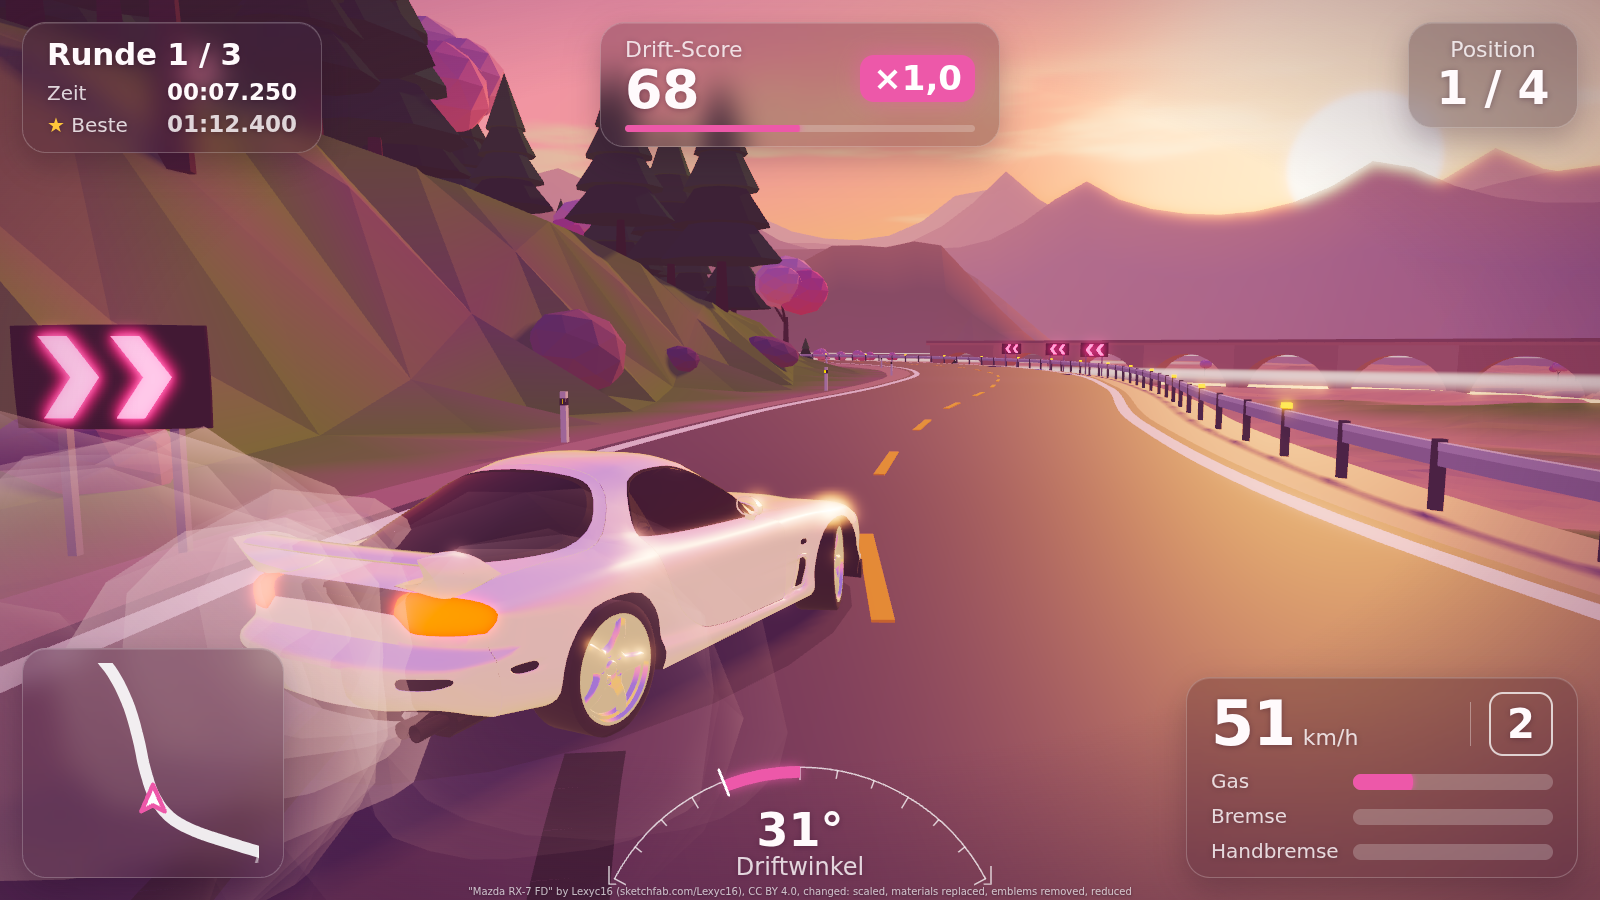
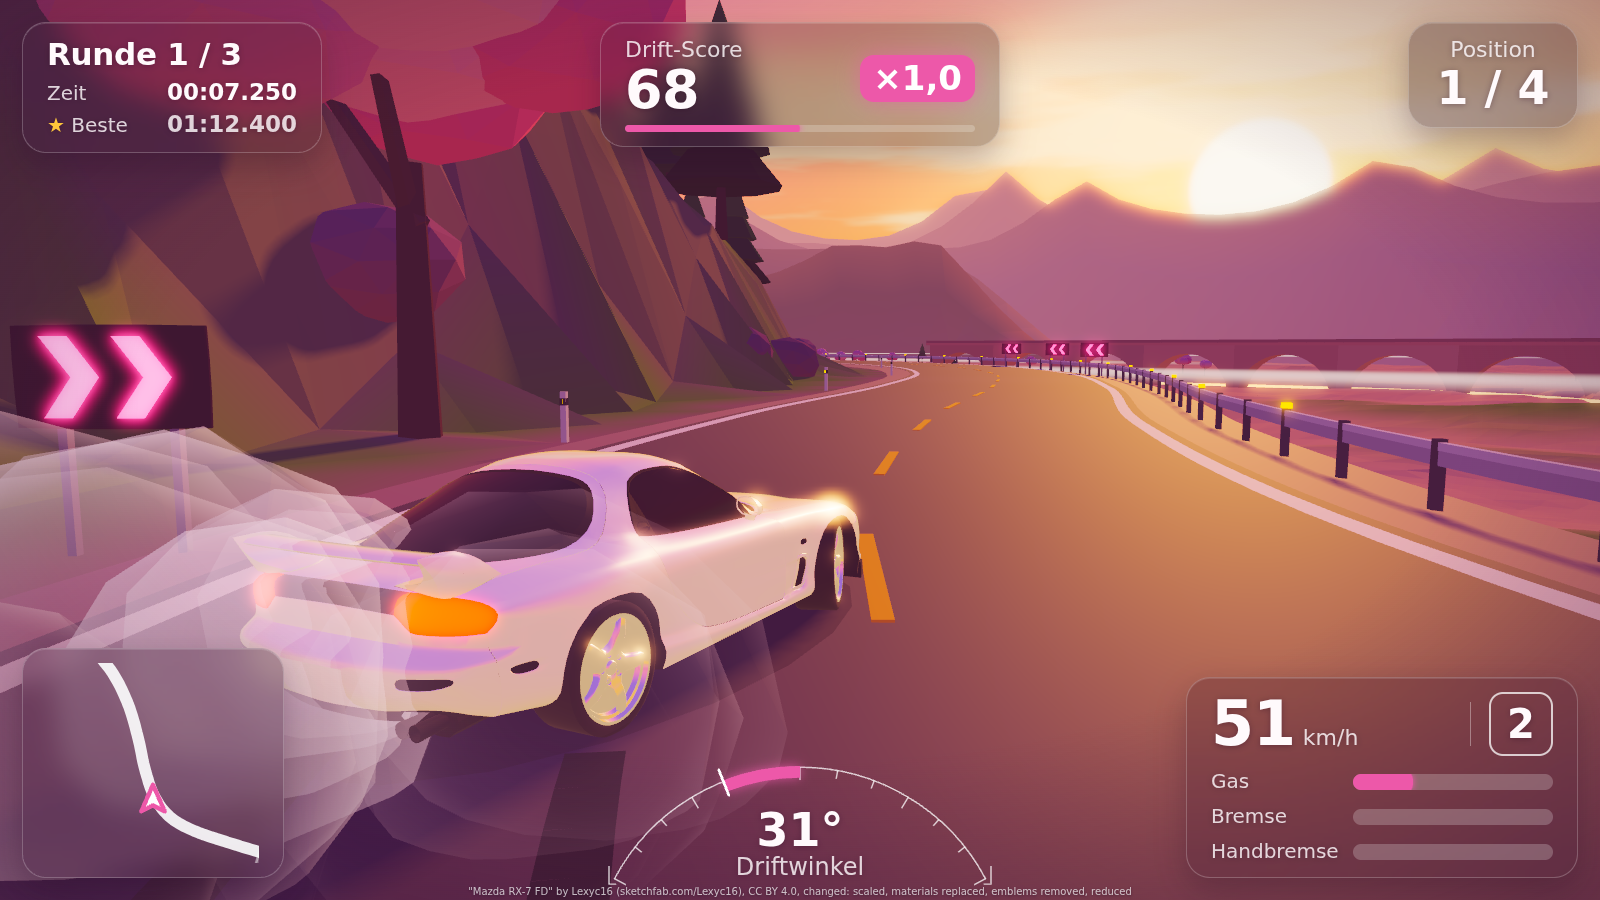
Look probe rounds 5 and 6: sun out from under the card with a stronger glow, cherry trees into the top left, faceted rock-and-grass slope, fuller nearly opaque smoke, clearer cloud bands, matt road; LOOK-LOG.md

diff --git a/game/view/look/puffs.js b/game/view/look/puffs.js
@@ -1,5 +1,5 @@
-// Tyre smoke as big soft clouds: round puffs in one instanced mesh (one draw call), lit by the sun, fading out through a per-puff
-// opacity, towards their own edges (so no hard outline) and close to the camera (so the camera never sits in a wall of smoke). Same calls as fx.js's Smoke (emit, update), plus sync() once per drawn frame.
+// Tyre smoke as big clouds: faceted puffs in one instanced mesh (one draw call), lit by the sun, fading out through a per-puff
+// opacity, towards their own edges and close to the camera (so the camera never sits in a wall of smoke). Same calls as fx.js's Smoke (emit, update), plus sync() once per drawn frame.
 import * as THREE from '../../../vendor/three/three.module.js';
 
 const _m = new THREE.Matrix4(), _q = new THREE.Quaternion(), _p = new THREE.Vector3(), _s = new THREE.Vector3(), _e = new THREE.Euler();
@@ -18,7 +18,7 @@ export class Puffs {
       sh.vertexShader = sh.vertexShader.replace('#include <common>', '#include <common>\nattribute float aAlpha;\nvarying float vAlpha;').replace('#include <begin_vertex>', '#include <begin_vertex>\nvAlpha = aAlpha;');
       sh.uniforms.uNear = { value: look.smoke.near ?? 3 };
       sh.fragmentShader = sh.fragmentShader.replace('#include <common>', '#include <common>\nvarying float vAlpha;\nuniform float uNear;').replace('#include <color_fragment>', '#include <color_fragment>\ndiffuseColor.a *= vAlpha;')
-        .replace('#include <opaque_fragment>', '#include <opaque_fragment>\nvec3 fn = normalize(cross(dFdx(vViewPosition), dFdy(vViewPosition)));\ngl_FragColor.a *= smoothstep(0.0, 0.3, abs(dot(fn, normalize(vViewPosition)))) * smoothstep(uNear, uNear + 2.5, length(vViewPosition));');
+        .replace('#include <opaque_fragment>', '#include <opaque_fragment>\nvec3 fn = normalize(cross(dFdx(vViewPosition), dFdy(vViewPosition)));\ngl_FragColor.a *= smoothstep(0.0, 0.12, abs(dot(fn, normalize(vViewPosition)))) * smoothstep(uNear, uNear + 2.5, length(vViewPosition));');
     };
     this.mesh = new THREE.InstancedMesh(geo, mat, capacity);
     this.mesh.instanceMatrix.setUsage(THREE.DynamicDrawUsage);

diff --git a/game/view/look/sky.js b/game/view/look/sky.js
@@ -42,7 +42,7 @@ export function makeSky(look, radius = 1800) {
         // soft streaks of cloud above the horizon, lit from below on the sun's side
         float az = atan(d.x, d.z);
         float n = fbm(vec2(az * 3.2 + 1.7, e * 26.0)) * 0.75 + fbm(vec2(az * 10.0, e * 60.0)) * 0.25;   // long thin streaks
-        float dens = smoothstep(0.46, 0.62, n) * smoothstep(0.05, 0.09, e) * (1.0 - smoothstep(0.2, 0.28, e)) * uClouds;
+        float dens = smoothstep(0.38, 0.54, n) * smoothstep(0.035, 0.07, e) * (1.0 - smoothstep(0.22, 0.32, e)) * uClouds;
         vec3 cc = mix(uCloudShade, uCloudLit, clamp(pow(c, 3.0) * 1.6 + 0.1, 0.0, 1.0)) + uGlow * pow(c, 20.0) * 1.2;   // golden edges near the sun
         col = mix(col, cc, dens);
         float disc = smoothstep(uSunCos - 0.0004, uSunCos + 0.0001, dot(d, uSunDir));

diff --git a/docs/LOOK-LOG.md b/docs/LOOK-LOG.md
@@ -52,3 +52,31 @@ Biggest differences left (picture `probe-sunset-drift.png` of this round):
    slope with a few rocks; the cherries are small in the corner.
 5. Colour: the mockup's whole picture is a little more saturated and contrasty (deep violet shadows, bright peach light); ours is
    a little grey-pink.
+
+## Round 5 (2026-11-25)
+
+Done: the sun moved out from under the position card and given a stronger golden glow; whiter, fuller smoke (less see-through at its
+edges); the left slope steeper with rock showing in patches between the grass (faceted); two big cherry trees placed 10 to 20 m ahead
+on the left so their blossom reaches into the top left corner, as in the mockup; a little more saturation and more violet in the
+shadows.
+
+Biggest differences left (picture `probe-sunset-drift.png` of this round):
+1. Valley: still the thin band behind the guardrail (the limit above).
+2. Smoke: still a little glassy (see-through faceted shells); the mockup's puffs read as solid, sunlit balls.
+3. Clouds: the mockup has distinct pink cloud bands around the sun; ours are faint.
+4. Road: the sun's sheen on the right half of the road is stronger and more orange than in the mockup.
+5. Middle: the mockup's midground right of the road has rounded green hills with pines in front of the mountains; ours goes from the
+   guardrail straight to the far valley and mountains.
+
+## Round 6 (2026-11-25)
+
+Done: more distinct cloud bands (lower threshold, a deeper pink shade), less sun sheen on the road (more matt asphalt), the smoke nearly
+opaque. Tried and dropped: solid smoke with a screen-door fade (no sorting needed, but the grain shows; the bloom does not hide it).
+
+Biggest differences left (picture `probe-sunset-drift.png` of this round):
+1. Valley: the thin band behind the guardrail (the limit above).
+2. Smoke: the faceted puffs still look a little like glass where several overlap (transparent shells in one instanced mesh are not
+   sorted); the mockup's smoke reads as soft, solid balls.
+3. Clouds: they sit mostly behind the drift-score card at this camera; the open sky right of it shows few.
+4. Midground right: the mockup has rounded green hills with pines between the road and the far mountains.
+5. Car: the mockup's car shows more of its flank and a stronger red glow of the tail lights.
